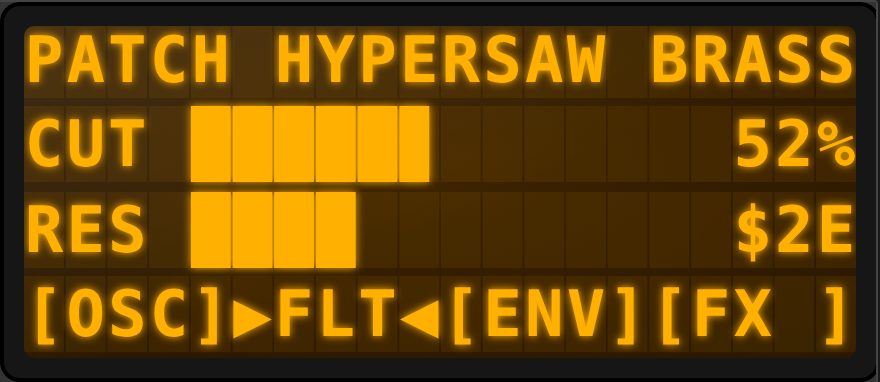
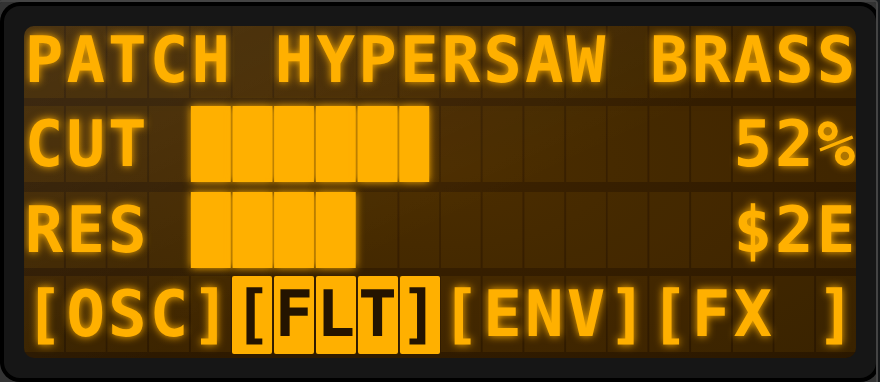
A pressed soft key inverts, so you can see you hit it
Soft keys landed without feedback: a zone took the press and acted, and nothing on the screen said
so. On a hardware panel the key under your finger goes to inverse video, and that is the half that
makes it feel like a key rather than a hotspot.

The renderer already had the mechanism and it was one cell wide. A block cursor lights its cell's
background and flips the glyph to the screen colour; a pressed key is the same two spans over a
span of cells, so `isPressed` joins `isCursor` in the condition that was already there rather than
introducing a second way to invert a cell.

TWO THINGS WERE DECIDED BY MEASUREMENT RATHER THAN TASTE, and both were wrong on the first attempt.

A FLASH, NOT A HELD STATE. Holding the highlight until pointer-up reads better in principle and
gets stuck in practice: press a key, drag off the display, release, and the pointer-up never
arrives at this control — leaving a key lit with nothing to turn it off. The flash owns its own
timer and cannot outlive itself. 140ms because a click can be shorter than a frame at 60Hz, so
tying the highlight to the real press duration makes a fast click produce no feedback at all.

A FROZEN REGION, NOT A ZONE ID. The first version handed the renderer the pressed zone's id and
looked it up in the active layout. It lit nothing, every time. A `{ layout }` press changes the
page, so by the time anything paints, the zone that was pressed belongs to the layout the screen
[…]

Changed region(s): [[0.2455, 0.7199, 0.5216, 0.9503]]

diff --git a/CE/web/src/CE_Application/editor/PanelPreviewSurface.svelte b/CE/web/src/CE_Application/editor/PanelPreviewSurface.svelte
@@ -561,6 +561,11 @@
   // both free-text with a caret — or a Combobox/Radio/Cyclic, which becomes a
   // choice cycler (no caret; wheel/arrows change the selected option).
   let lcdEdit = $state({ id: '', zoneId: '', sourceId: '', kind: '', caret: 0, original: '', active: false });
+  // The soft key currently flashing, as a REGION rather than a zone id: { id, row, c0, c1 },
+  // 0-based. See lcdFlashPress for why it is a region, and why it is timed.
+  let lcdPress = $state({ id: '', row: -1, c0: 0, c1: 0 });
+  let lcdPressTimer = 0;
+
   // Which layout a soft key has navigated each display to: { [controlId]: layoutId }.
   // TRANSIENT, exactly like lcdEdit above it — a press is a performance action, not an edit to the
   // panel document, so it must not reach the store and must not survive leaving preview.
@@ -780,6 +785,38 @@
    * author does once: navigate to another page, or move a control. Anything structural belongs in
    * the inspector, which is the same line componentVerbs.js draws for script verbs.
    */
+  /**
+   * Light a soft key for long enough to be seen.
+   *
+   * A FLASH, NOT A HELD STATE, and that is a decision rather than a shortcut. Holding the
+   * highlight until pointer-up reads better in principle and gets STUCK in practice: press a key,
+   * drag off the display, release, and the pointer-up never arrives at this control — leaving a
+   * key lit with nothing to turn it off. A soft key fires on press and is momentary, so the
+   * feedback is momentary too, on its own timer, and cannot outlive itself.
+   *
+   * 140ms because a click can be shorter than a frame at 60Hz: tying the flash to the real press
+   * duration would make a fast click produce no visible feedback at all.
+   *
+   * A REGION, NOT A ZONE ID, and that one is not a preference either. A `{ layout }` press changes
+   * the page, so by the time anything paints, the zone that was pressed belongs to the layout the
+   * screen has just LEFT — looking it up by id in the now-active layout finds nothing and the key
+   * never lights. (Measured: zero inverted cells.) Freezing the row and column span at press time
+   * lights the place the finger was, over whatever page arrives, which is what a hardware soft key
+   * does: the feedback is positional, and soft-key rows sit in the same place across pages.
+   */
+  function lcdFlashPress(control, zone) {
+    if (lcdPressTimer) clearTimeout(lcdPressTimer);
+    const cols = Math.max(1, Math.round(numberOr(lcdDisplayOf(control)?.cols, 16)));
+    const row = Math.max(0, Math.round(numberOr(zone?.row, 1)) - 1);
+    const c0 = Math.max(0, Math.min(cols - 1, Math.round(numberOr(zone?.colStart, 1)) - 1));
+    const c1 = Math.max(c0, Math.min(cols - 1, Math.round(numberOr(zone?.colEnd, cols)) - 1));
+    lcdPress = { id: getControlId(control), row, c0, c1 };
+    lcdPressTimer = setTimeout(() => {
+      lcdPress = { id: '', row: -1, c0: 0, c1: 0 };
+      lcdPressTimer = 0;
+    }, 140);
+  }
+
   function lcdPerformPress(control, zone) {
     const controlId = getControlId(control);
     const press = zone?.press ?? {};
@@ -791,6 +828,7 @@
       // make, and for the same reason — a typo that changes nothing is debuggable.
       if (!(display?.layouts ?? []).some((l) => String(l?.id ?? '') === layoutId)) return false;
       lcdPressedLayout = { ...lcdPressedLayout, [controlId]: layoutId };
+      lcdFlashPress(control, zone);
       return true;
     }
 
@@ -805,6 +843,7 @@
       if (!isRangeBehavior(behavior)) return false;
       const value = snapRangeValue(behavior, numberOr(press.to, getRangeMin(behavior)));
       updatePanelPreviewSession(getControlId(target), { valueOverrideEnabled: true, valueOverride: value });
+      lcdFlashPress(control, zone);
       return true;
     }
     return false;
@@ -1107,6 +1146,9 @@
         // Live edit marker: text edits carry the caret; a choice edit highlights
         // the armed zone (the renderer parks the block on its first cell).
         const controlId = getControlId(control);
+        // Which soft key is lit right now, for the renderer to draw in inverse.
+        cd.__press = (lcdPress.id === controlId && lcdPress.row >= 0)
+          ? { row: lcdPress.row, c0: lcdPress.c0, c1: lcdPress.c1 } : null;
         cd.__edit = (lcdEdit.active && lcdEdit.id === controlId)
           ? { active: true, caret: lcdEdit.caret, zoneId: lcdEdit.zoneId, kind: lcdEdit.kind } : null;
       }

diff --git a/CE/web/src/CE_Application/editor/LcdDisplayRenderer.svelte b/CE/web/src/CE_Application/editor/LcdDisplayRenderer.svelte
@@ -443,6 +443,30 @@
     ].join('; ');
   });
 
+  // --- Pressed soft key (inverse video) ---
+  // The preview injects display.__press = { row, c0, c1 } (0-based) for ~140ms when a pressable
+  // zone is clicked. It arrives as a REGION rather than a zone id on purpose: a press that changes
+  // the page leaves its own zone behind on the old layout, so there would be nothing to look up.
+  //
+  // Character panels only, and that is a real limit rather than an oversight. On a SEGMENT panel
+  // "inverse" has no meaning — a starburst glyph has lit segments and unlit ones, and lighting all
+  // of them spells nothing. On a GRAPHIC panel the cells are drawn into a canvas bitmap, so
+  // inverting a region means flipping bits after the stamp rather than styling a span; worth
+  // doing, but it is canvas work and does not belong in this commit.
+  let pressedRegion = $derived.by(() => {
+    const press = display?.__press;
+    if (!press || isSegment || isGraphic) return null;
+    const row = Math.round(numberOr(press.row, -1));
+    if (row < 0 || row >= rows) return null;
+    const c0 = clamp(Math.round(numberOr(press.c0, 0)), 0, cols - 1);
+    const c1 = clamp(Math.round(numberOr(press.c1, 0)), c0, cols - 1);
+    return { row, c0, c1 };
+  });
+
+  function isPressedCell(r, c) {
+    return pressedRegion !== null && r === pressedRegion.row && c >= pressedRegion.c0 && c <= pressedRegion.c1;
+  }
+
   let backlightOn = $derived(display?.backlightOn !== false);
   let showGhost = $derived(display?.showGhost !== false);
   let showScanlines = $derived(display?.showScanlines === true);
@@ -522,6 +546,7 @@
         <div class="lcd-line" style={lineStyle}>
           {#each line as ch, c (c)}
             {@const isCursor = cursorVisible && r === cursorRow && c === cursorCol}
+            {@const isPressed = isPressedCell(r, c)}
             <span class="lcd-cell" style={cellStyle}>
               {#if isSegment}
                 {@const glyph = getSegmentGlyph(segmentType, ch)}
@@ -548,11 +573,11 @@
                 {#if showGhost}
                   <span class="lcd-ghost" style={ghostStyle}>█</span>
                 {/if}
-                {#if isCursor && effectiveCursorMode === 'block'}
+                {#if isPressed || (isCursor && effectiveCursorMode === 'block')}
                   <span class="lcd-cursor-block" style={`background:${litCss};`}></span>
                 {/if}
                 {#if blinkOn}
-                  <span class="lcd-char" style={isCursor && effectiveCursorMode === 'block' ? charInvertStyle : charStyle}>{ch}</span>
+                  <span class="lcd-char" style={isPressed || (isCursor && effectiveCursorMode === 'block') ? charInvertStyle : charStyle}>{ch}</span>
                 {/if}
               {/if}
               {#if isCursor && effectiveCursorMode === 'underline'}

diff --git a/docs/design/display-component-futures.md b/docs/design/display-component-futures.md
@@ -19,13 +19,15 @@ Two kinds, and they must not be confused:
   controls; nothing in them is a feature the components lack. See [the gallery](../display-gallery.md).
 - **`docs/media/mockup-*.png`** illustrate *this document*. They are rendered by the same
   machinery (`gen-display-demos.mjs --mockups`, scenes in `displayDemos/mockups.mjs`). Most show
-  things that do not exist. The soft-key pair is the exception: proposal 4 has since shipped, so
-  those two now document a feature — except for the pressed-state highlight, which is still
-  hand-drawn because the renderer does not draw one.
+  things that do not exist. **The soft-key pair is now the exception in both directions:** proposal
+  4 shipped, and so did the pressed state that followed it, so those two are recordings of a
+  working feature — the second captured mid-press, with the inverse video drawn by the renderer.
 
 Most of the mockups below draw with today's renderer, because in most cases what is missing is
-**behaviour, not pixels** — a zone that can be pressed looks exactly like a zone that cannot. Where
-a mockup shows something genuinely un-renderable, it says which renderer is standing in.
+**behaviour, not pixels**. That was true of the soft keys until they shipped: a zone that could be
+pressed looked exactly like one that could not, which is why the pressed state was worth building
+straight after. Where a mockup shows something genuinely un-renderable, it says which renderer is
+standing in.
 
 ## The audit, in numbers
 
@@ -249,9 +251,27 @@ of opening a new one, so no display acquired a `Mouse` or `HitZones` section and
   thing the user said — but not an overlay, which is a transient interruption that should be seen
   over whatever page you had navigated to.
 
-**Still missing, and worth knowing:** there is **no pressed-state rendering**. Nothing inverts
-under the finger, so the "FLT pressed" picture above is hand-drawn by swapping the label's text.
-And `PixelDisplay` elements are not pressable — this is `LcdDisplay` zones only.
+**The pressed state shipped too**, so the picture above is a real capture rather than a drawing:
+the key inverts — lit ground, dark glyphs — for 140ms.
+
+Two decisions there were forced by measurement rather than taste:
+
+- **It is a flash, not a held state.** Holding the highlight until pointer-up reads better in
+  principle and gets *stuck* in practice: press, drag off the display, release, and the pointer-up
+  never reaches the control, leaving a key lit with nothing to turn it off. 140ms because a click
+  can be shorter than a frame, so tying the flash to the real press duration makes a fast click
+  produce no feedback at all.
+- **The flash is a frozen region, not a zone id.** A `{ layout }` press changes the page, so by the
+  time anything paints, the pressed zone belongs to the layout the screen has just *left* — looking
+  it up by id finds nothing and the key never lights. Measured: zero inverted cells. Freezing the
+  row and column span at press time lights the place the finger was, over whatever page arrives,
+  which is what hardware does — soft-key rows sit in the same place across pages.
+
+**Still missing:** inverse video is **character panels only**. On a *segment* panel "inverse" has
+no meaning — a starburst has lit segments and unlit ones, and lighting all of them spells nothing.
+On a *graphic* panel the cells are stamped into a canvas bitmap, so inverting a region means
+flipping bits after the stamp rather than styling a span: worth doing, and canvas work. And
+`PixelDisplay` elements are not pressable at all — this is `LcdDisplay` zones only.
 
 ## 5. Let a zone bind a device parameter directly
 
@@ -426,7 +446,7 @@ without changing its model, because the click path was already there for edit fi
 
 | # | State |
 | --- | --- |
-| 4 | **Shipped** — pressable zones, `{ layout }` and `{ set }`. No pressed-state rendering; LcdDisplay only. |
+| 4 | **Shipped** — pressable zones, `{ layout }` and `{ set }`, with inverse-video feedback. Character panels only; LcdDisplay only. |
 | 3 | **Shipped** — `lcd.editText` / `pixel.editText`. Host automation still open. |
 | 2 | **Attempted; redesigned.** Index addressing rejected by the spec test; needs an id-addressed reducer kind. |
 | 1, 5, 6 | Not started. |
